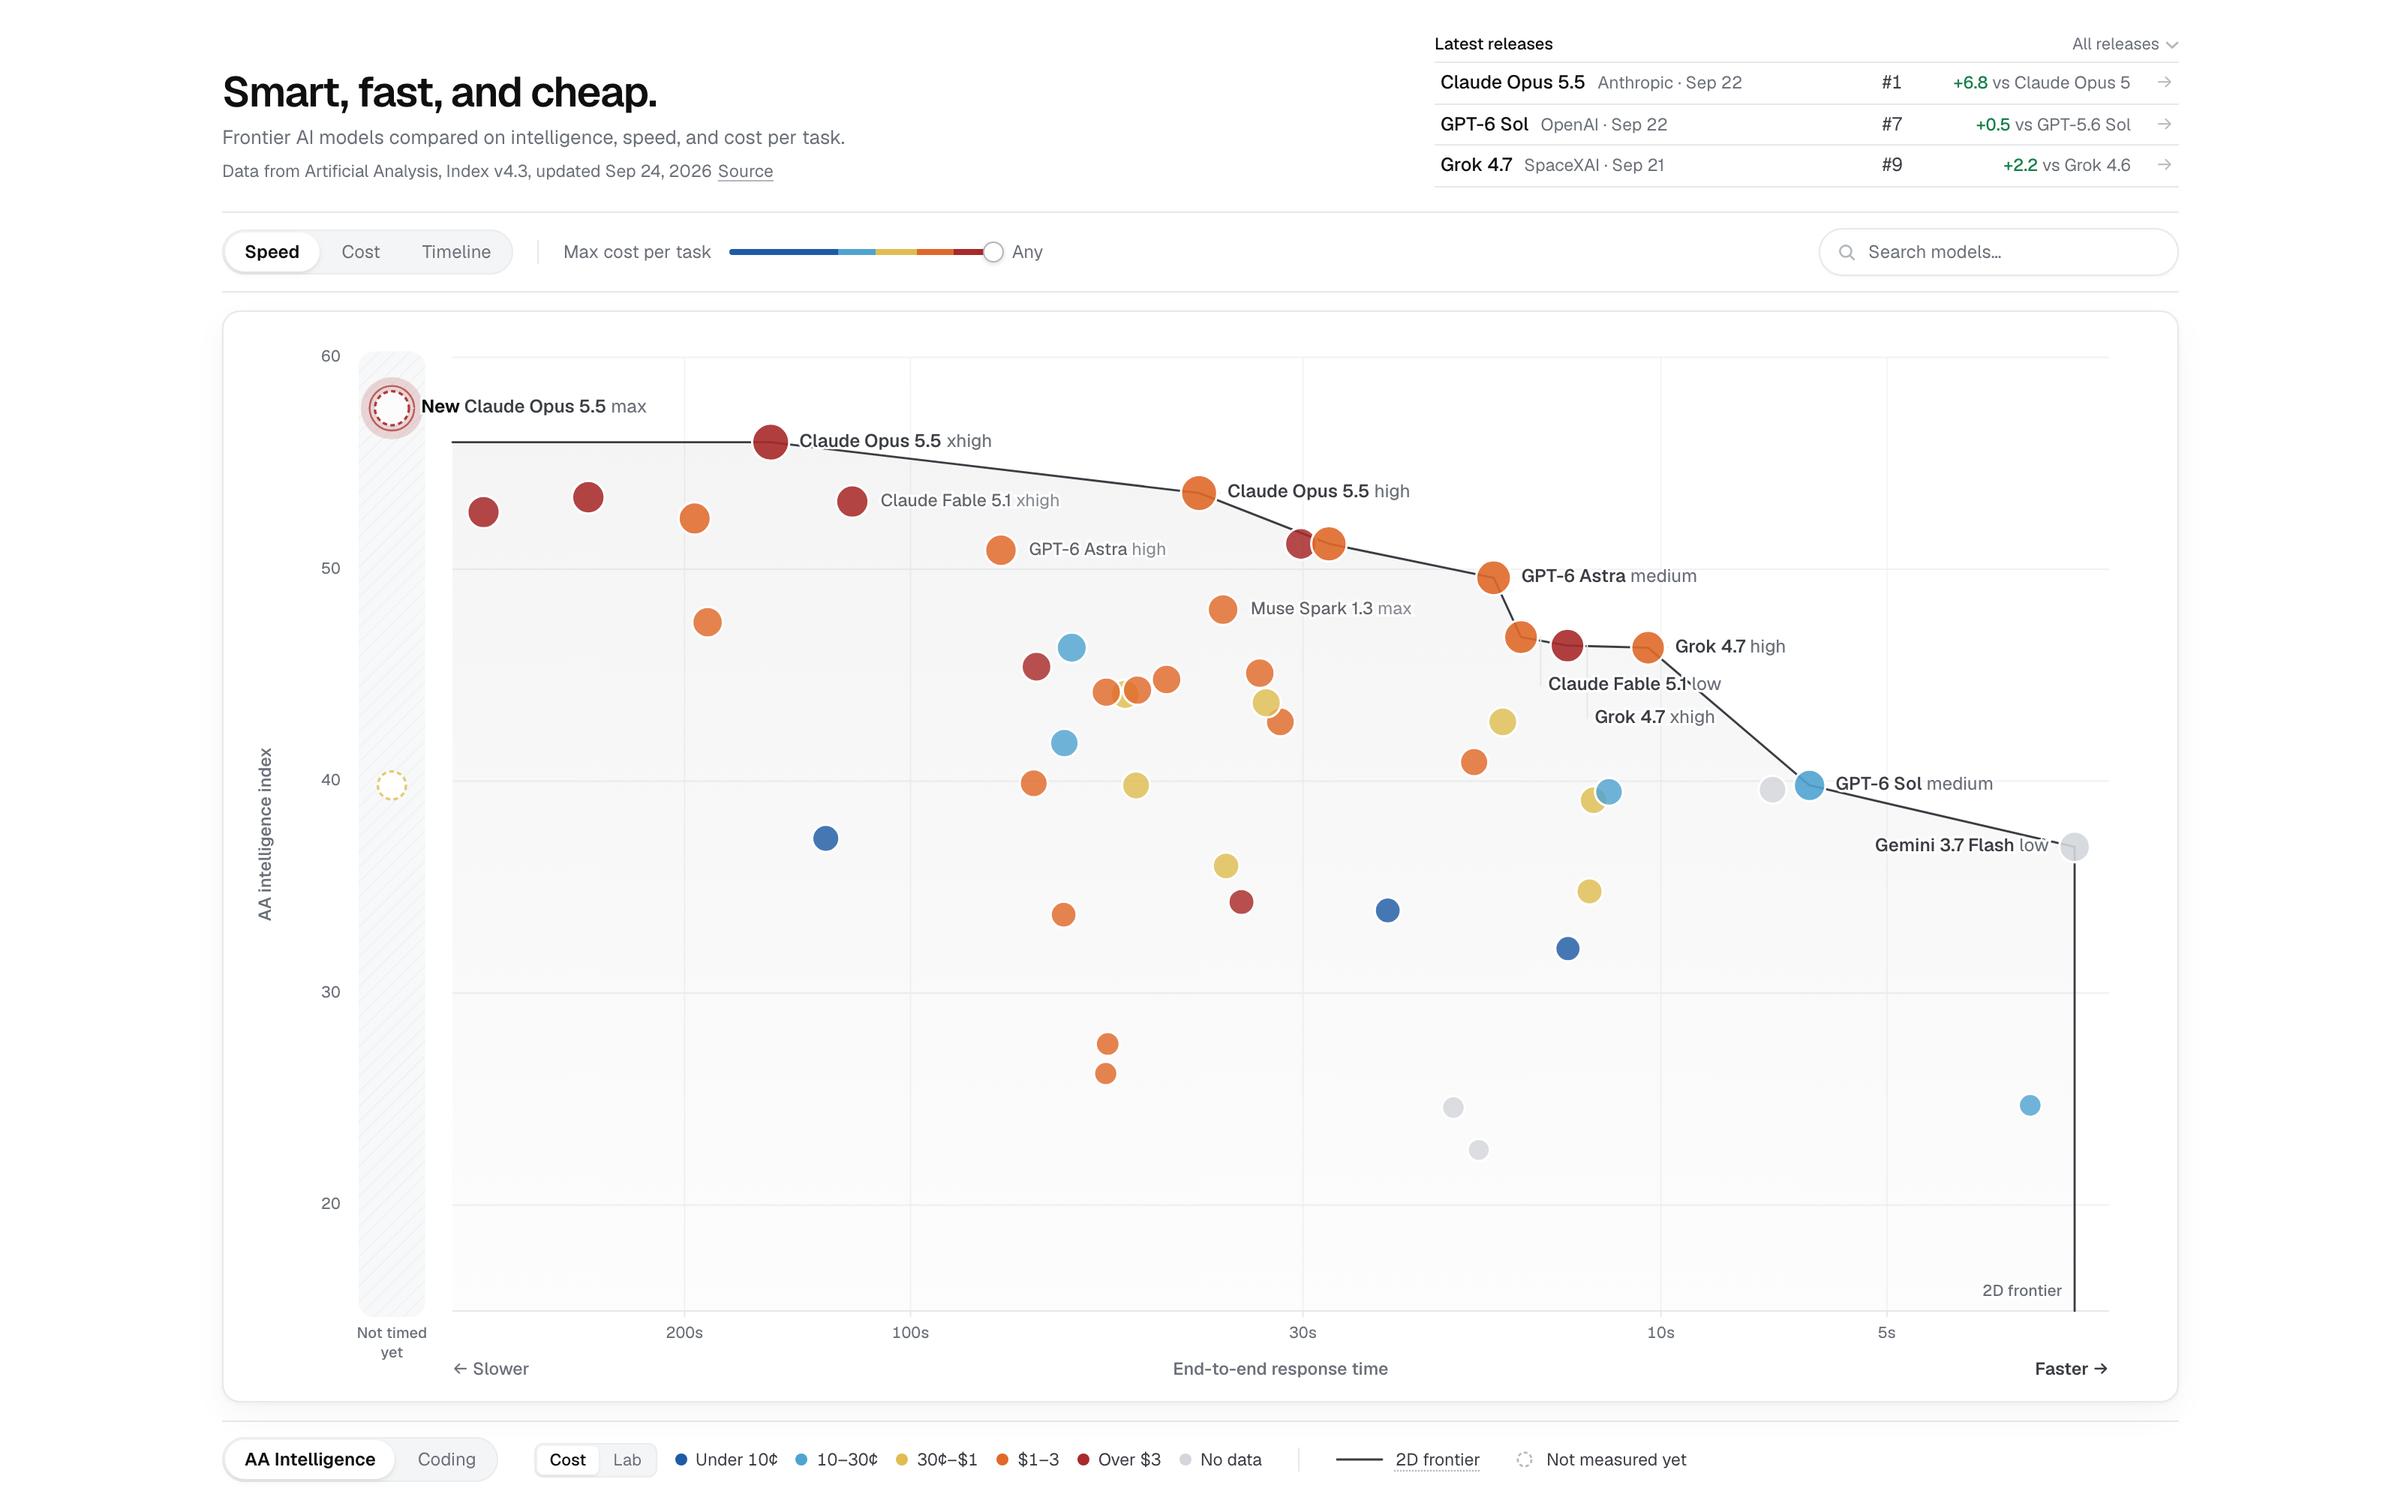
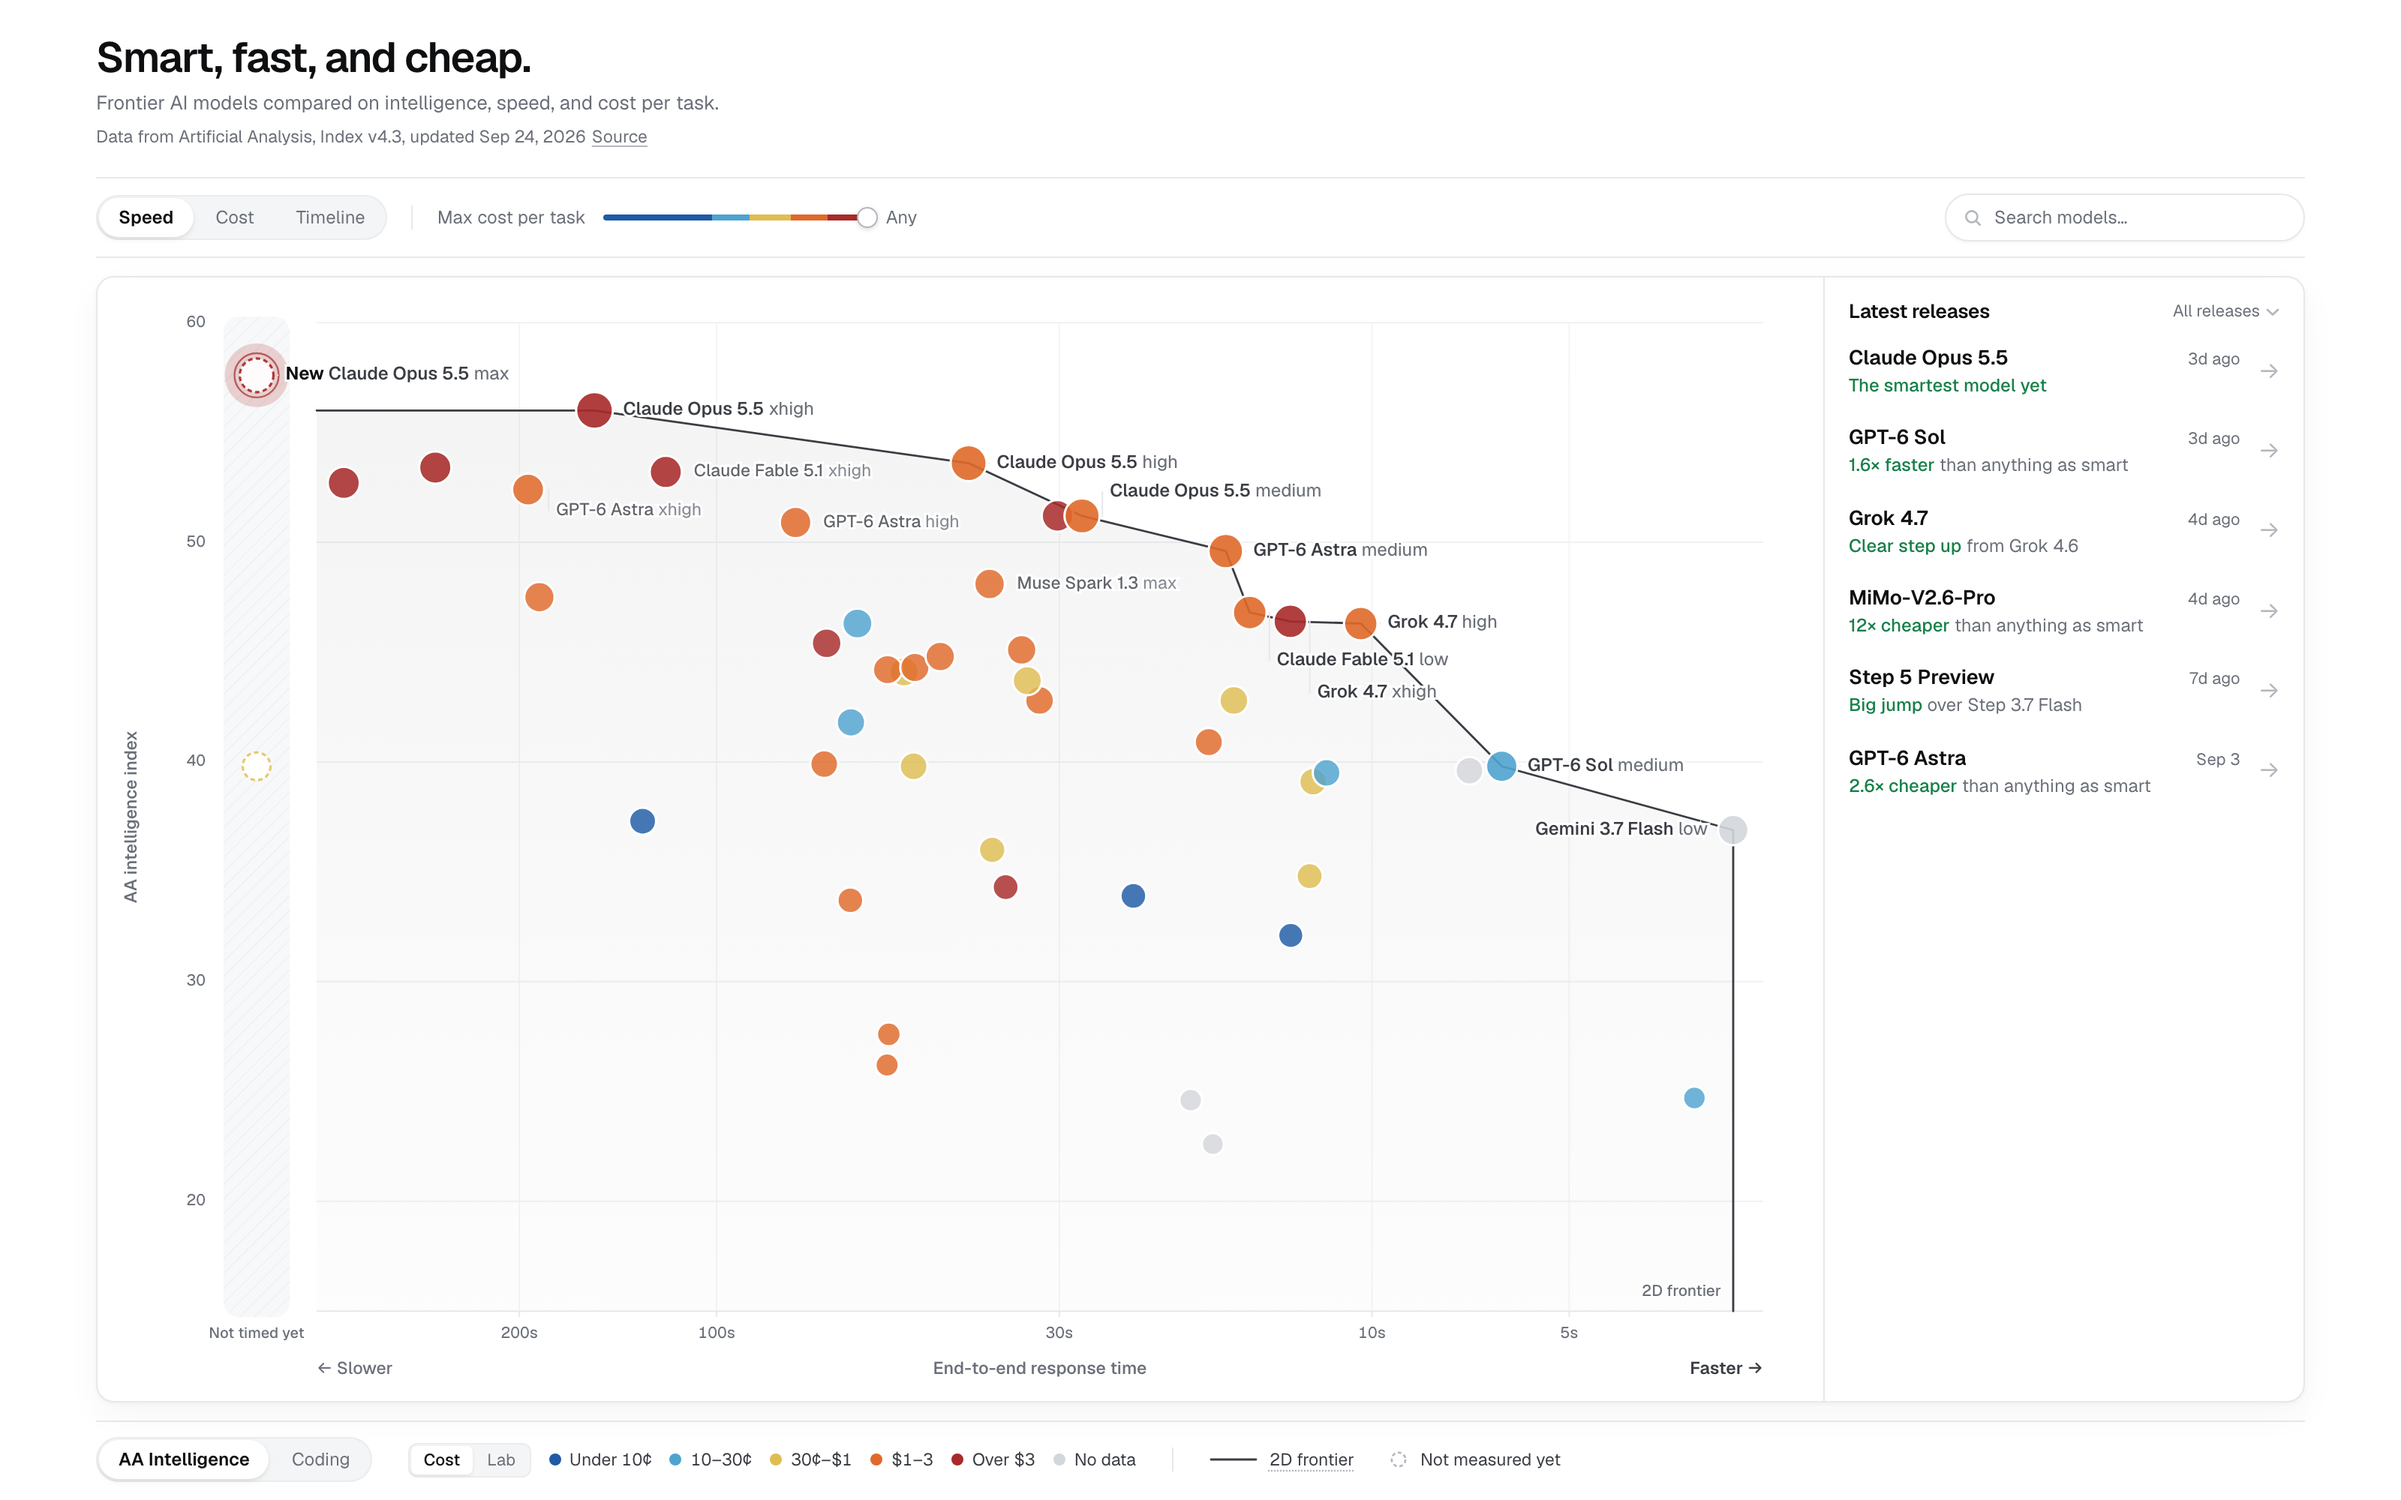
Refresh README screenshots and tour, and show release focus

diff --git a/README.md b/README.md
@@ -4,7 +4,7 @@
 
 **[Open the live map →](https://ethangreeney.github.io/ai-analysis/)**
 
-![Tour: open a new release as a comparison, drag a budget, flip between speed, cost and timeline](docs/tour.gif)
+![Tour: open a new release to see why it matters, view a whole lineup, drag a budget, flip between speed, cost and timeline](docs/tour.gif)
 
 ## Read it in a glance
 
@@ -14,11 +14,19 @@
 
 Flip the axis to **Cost** to see smart-and-cheap instead, or **Timeline** to watch the intelligence record get broken release by release.
 
+## See why a new release matters
+
+**Latest releases** gives every launch one line on what it did best: **the smartest model yet**, **12× cheaper than anything as smart**, **1.6× faster than anything as smart**, or simply how far it moved past the version it replaces.
+
+Click one and the map draws **its own line** against **the version it replaces** (dashed) and **the best of everything** (light). Each setting on the line is labelled by effort, so you can see which one to pick. Switch to the whole lineup (all of GPT-6, say) with one click.
+
+![MiMo-V2.6-Pro in focus on the cost view: 12× cheaper than anything as smart, sitting on the frontier](docs/focus.png)
+
 ## See how fast it's moving
 
-The timeline answers **"how much better is today than a year ago?"** in three numbers: how much smarter the best model got, and how much cheaper and faster last year's best is to match now. Click any of them to open that exact comparison.
+The timeline answers **"how much better is today than a year ago?"** in three plain sentences: where last year's best model would rank today, and how much cheaper and faster the same smarts are now. Click any of them to open that exact comparison.
 
-![Progress in the last year: +34.6 points at the top, 31× cheaper and 27× faster for the same smarts](docs/progress.png)
+![Progress in the last year: the best model from a year ago now ranks #92, and the same smarts cost 31× less and arrive 27× faster](docs/progress.png)
 
 ## Set a budget
 
@@ -28,7 +36,7 @@ Drag the budget slider left. Everything pricier fades out, and the frontier redr
 
 ## Compare what you use now
 
-Click any dot, then a second one, or click a release under **Latest releases** to see it against the version it replaces. The card says it in plain terms: **+6.8 intelligence, about the same cost per task.** Copy the link and the whole comparison travels with it.
+Click any dot, then a second one, or open a release and hit **Compare** to see it against the version it replaces. The card says it in plain terms: **+6.8 intelligence, about the same cost per task.** Copy the link and the whole comparison travels with it.
 
 ![Claude Opus 5 vs Claude Opus 5.5: +6.8 intelligence at about the same cost per task](docs/compare.png)
 
